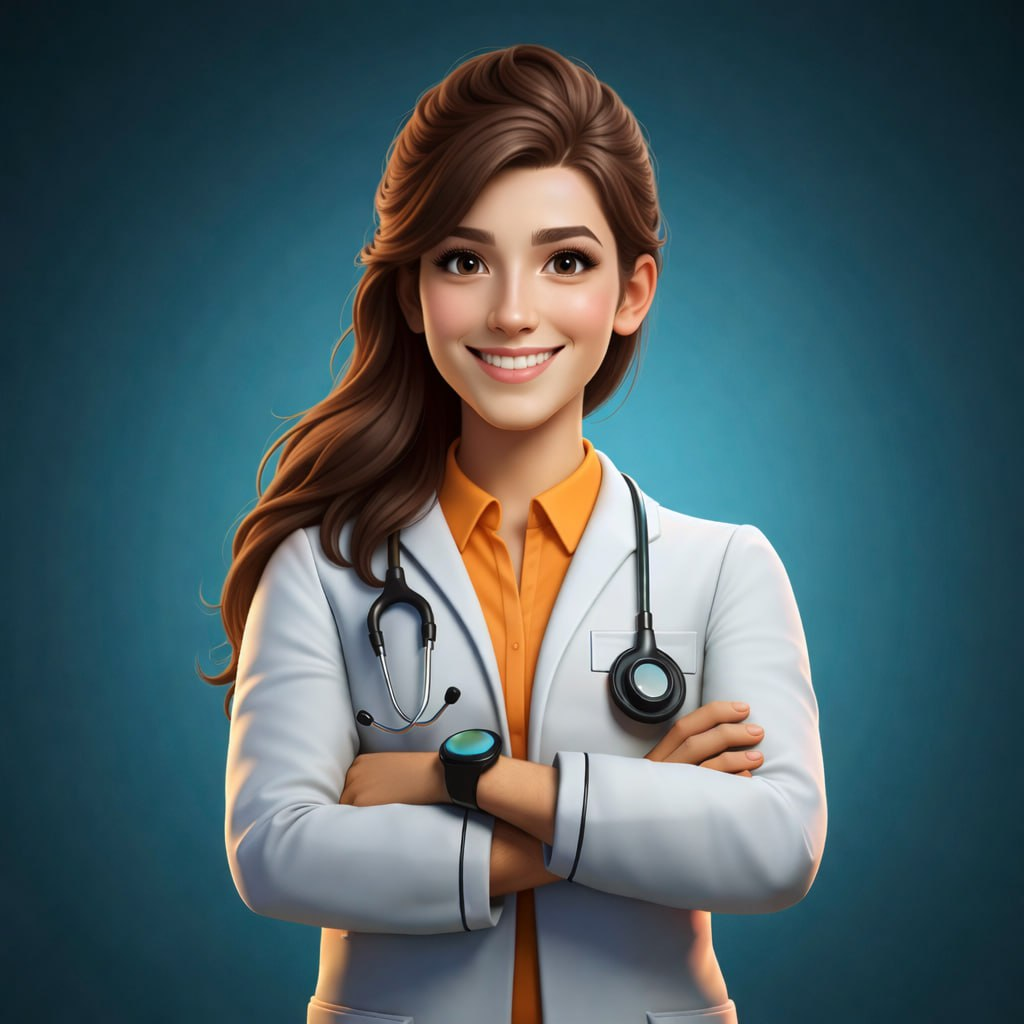
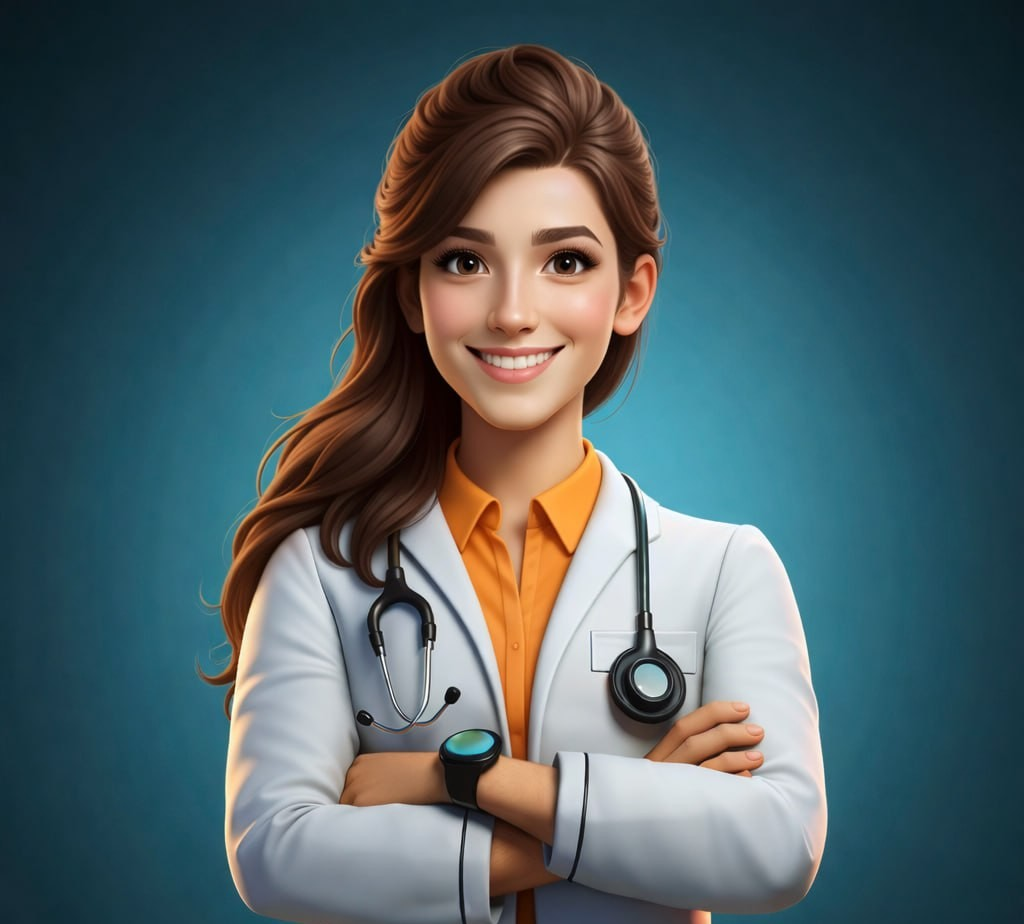
main

diff --git a/frontend/src/pages/auth/components/Login.js b/frontend/src/pages/auth/components/Login.js
@@ -12,8 +12,11 @@ import { IoPerson } from 'react-icons/io5';
 export default function Login() {
   const [loading, setloading]=useState(false)
   const {user_id, setuser_id} = useStore()
+  
+
     const {t}=useTranslation()
    const navigate=useNavigate()
+
 
 
 
@@ -78,11 +81,13 @@ export default function Login() {
         {
            required: true,
            message: "",
-            
-        }
+         }
       ]}
+      normalize={(value) => {
+        return value ? value.replace(/[.,!? ]/g, '') : '';
+      }}
     >
-      <Input prefix={<IoPerson />}  autoComplete="username" className='login_input' placeholder={t("enter_username")} />
+      <Input prefix={<IoPerson />}   autoComplete="username" className='login_input' placeholder={t("enter_username")} />
     </Form.Item>
 
     <Form.Item
@@ -94,6 +99,9 @@ export default function Login() {
           message: "",
         },
       ]}
+      normalize={(value) => {
+        return value ? value.replace(/[.,!? ]/g, '') : '';
+      }}
     >
       <Input.Password prefix={<IoMdLock />} className='login_input'  placeholder={t("enter_password")} autoComplete="current-password"/>
     </Form.Item>

diff --git a/frontend/src/pages/auth/components/Register.js b/frontend/src/pages/auth/components/Register.js
@@ -15,7 +15,7 @@ export default function Register() {
   const [open, setopen]=useState(false)
   const [loading, setloading]=useState(false)
   const [email, setemail]=useState(null)
-  const [username, setUsername]=useState(null)
+ 
   const [usernameError, setUsernameError] = useState(""); 
   const [emailError, setEmailError] = useState("");
 
@@ -131,6 +131,9 @@ const onFinish = async (val) => {
         message: t("please_enter_email"),
       }
     ]}
+    normalize={(value) => {
+      return value ? value.replace(/[.,!? ]/g, '') : '';
+    }}
   >
     <Input
       prefix={<IoIosMail />}
@@ -152,11 +155,14 @@ const onFinish = async (val) => {
         message: t("please_enter_username"),
       },
     ]}
+    normalize={(value) => {
+      return value ? value.replace(/[.,!? ]/g, '') : '';
+    }}
   >
     <Input
       prefix={<IoPerson />}
       placeholder={t("enter_username")}
-      onChange={() => setUsernameError("")} // input o'zgarganda API errorni tozalash
+      onChange={() => setUsernameError("")} 
     />
   </Form.Item>
 
@@ -172,6 +178,9 @@ const onFinish = async (val) => {
           message: "",
         },
       ]}
+      normalize={(value) => {
+        return value ? value.replace(/[.,!? ]/g, '') : '';
+      }}
     >
       <Input.Password  prefix={<IoMdLock />} className='login_input'  placeholder={t("enter_new_password")} autoComplete="new-password"/>
     </Form.Item>
@@ -180,6 +189,7 @@ const onFinish = async (val) => {
       wrapperCol={{
         span: 24,
       }}
+      
     >
       <Button loading={loading} className='btn_form' htmlType="submit">
         {t("register")}

diff --git a/frontend/src/App.css b/frontend/src/App.css
@@ -15,7 +15,7 @@
   --text_second_color:#416d83;
   --back_color:#4FD1C5;
   --back_hover_color:#38B2AC;
-  --cancel_color: #5bb0df;  /* qizil asosiy */
+  --cancel_color: #5bb0df;
   --cancel_hover_color: #427c9b;
   --border_color:#d9d9d9;
   --back_gradient_color:#2AA79B;

diff --git a/frontend/src/components/Header.js b/frontend/src/components/Header.js
@@ -44,13 +44,11 @@ const twoLetterPrefixes = ["Sh", "Ch"];
 const lastNameUpper = lastName.toUpperCase();
 
 const prefixMatch = twoLetterPrefixes.find(p => lastNameUpper.startsWith(p.toUpperCase()));
-
 if (prefixMatch) {
   prefix = prefixMatch;
 } else {
   prefix = lastNameUpper[0];
 }
-
 const displayName = `${prefix}.${user.doctor.firstName}`;
 
 